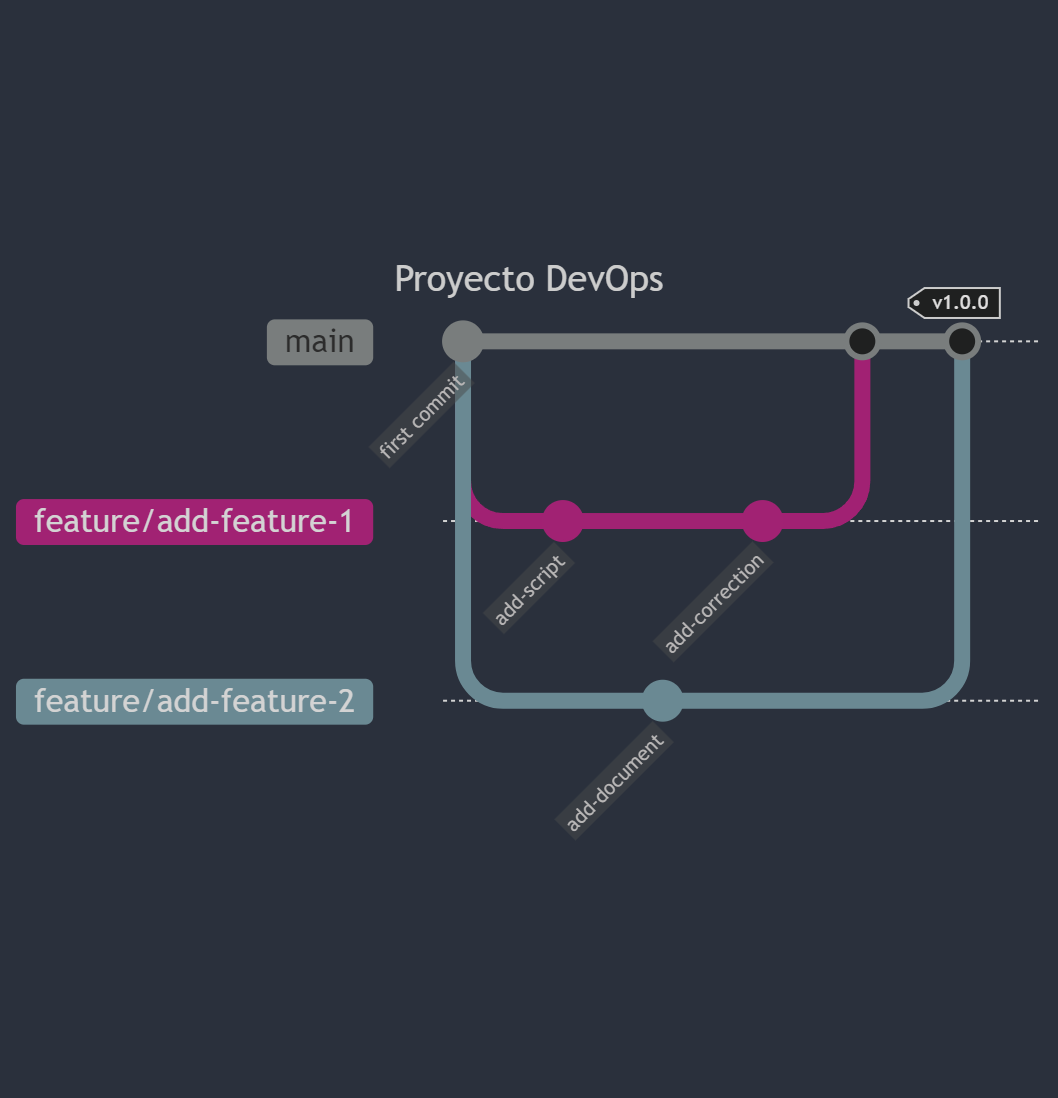
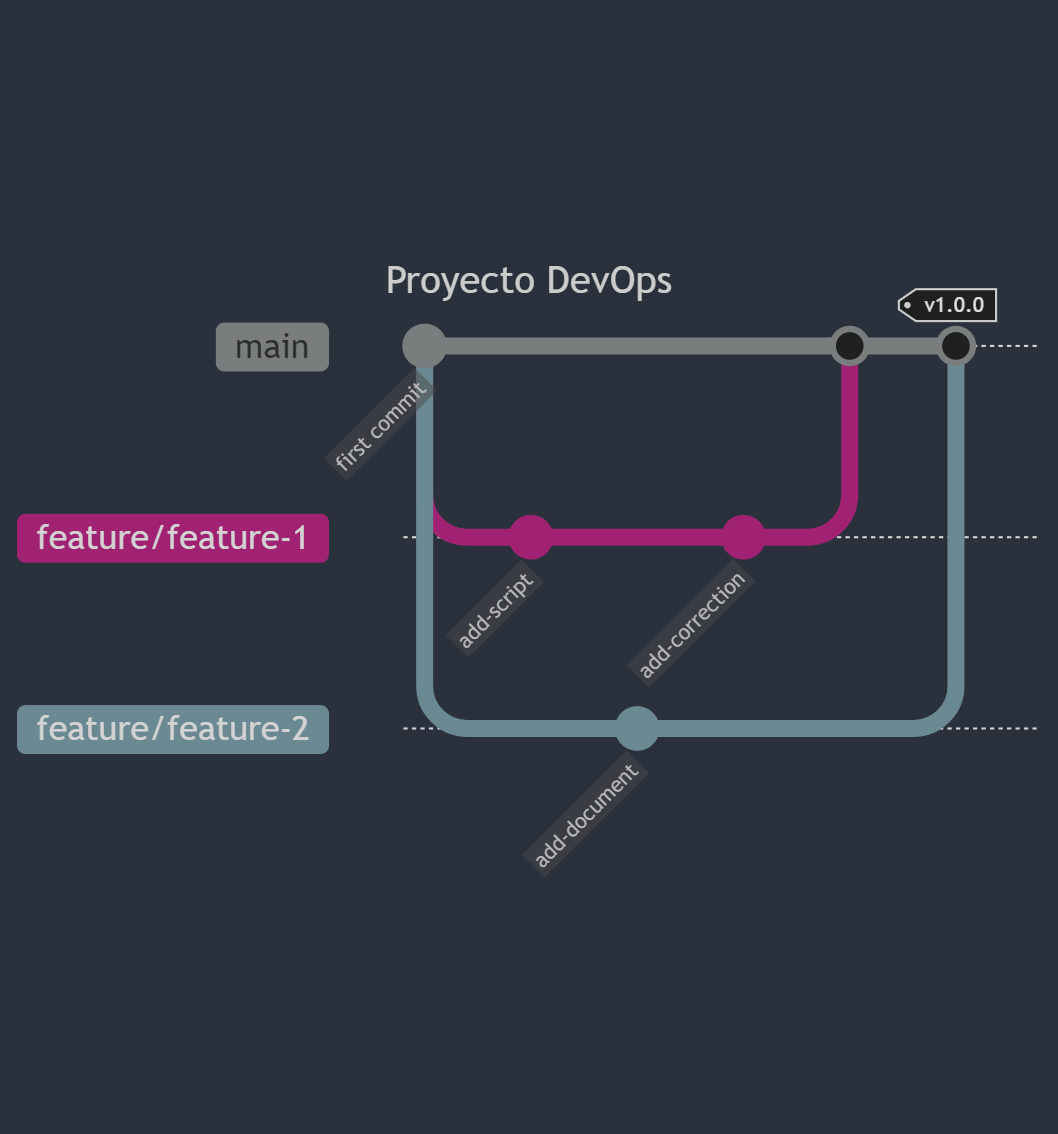
fix branch names in devops diagram

Changed region(s): [[0.0312, 0.2168, 0.9669, 0.7741], [0.655, 0.4335, 0.7486, 0.5574], [0.5926, 0.5574, 0.655, 0.5883]]

diff --git a/diagramas/DevOps.md b/diagramas/DevOps.md
@@ -4,17 +4,18 @@ title: Proyecto DevOps
 ---
 gitGraph
    commit id: "first commit" 
-   branch feature/add-feature-1
+   branch feature/feature-1
    commit id: "add-script"
    checkout main
-   branch feature/add-feature-2
+   branch feature/feature-2
    commit id: "add-document"
-   checkout feature/add-feature-1
+   checkout feature/feature-1
    commit id: "add-correction"
    checkout main
-   merge feature/add-feature-1
-   checkout feature/add-feature-2
+   merge feature/feature-1
+   checkout feature/feature-2
    checkout main
-   merge feature/add-feature-2 tag: "v1.0.0"
+   merge feature/feature-2 tag: "v1.0.0"
+
    
 ```
